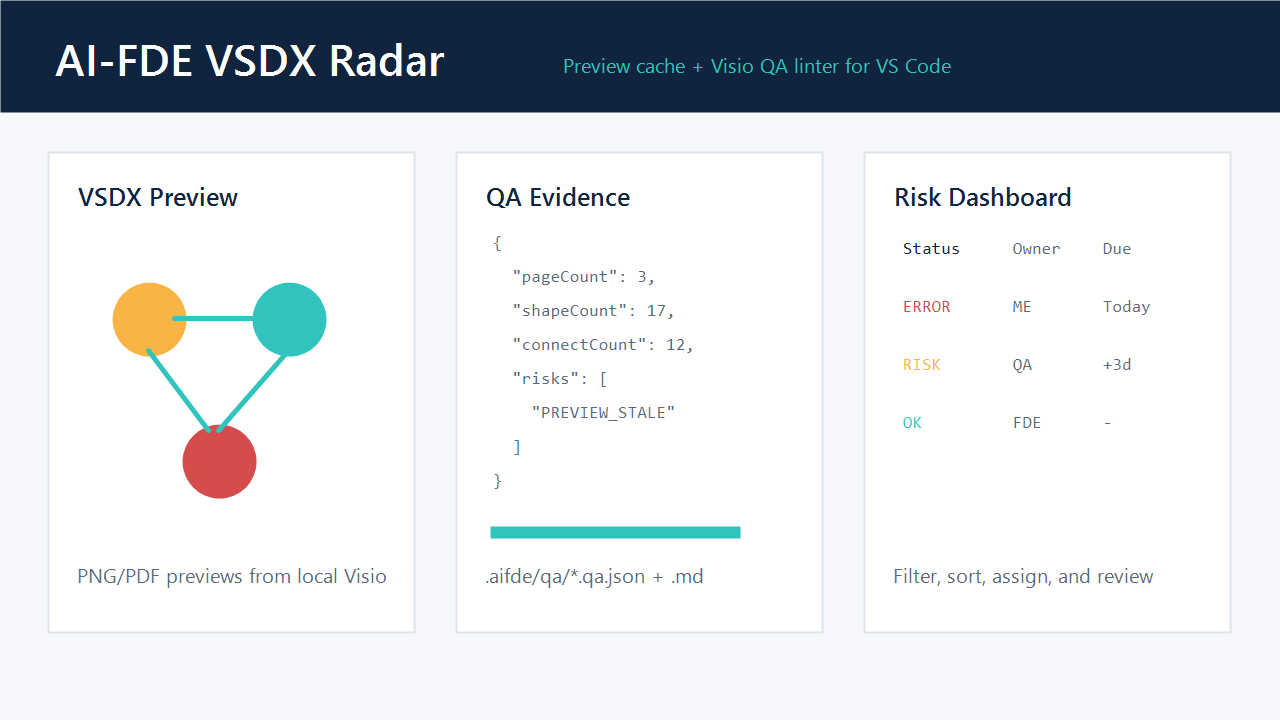
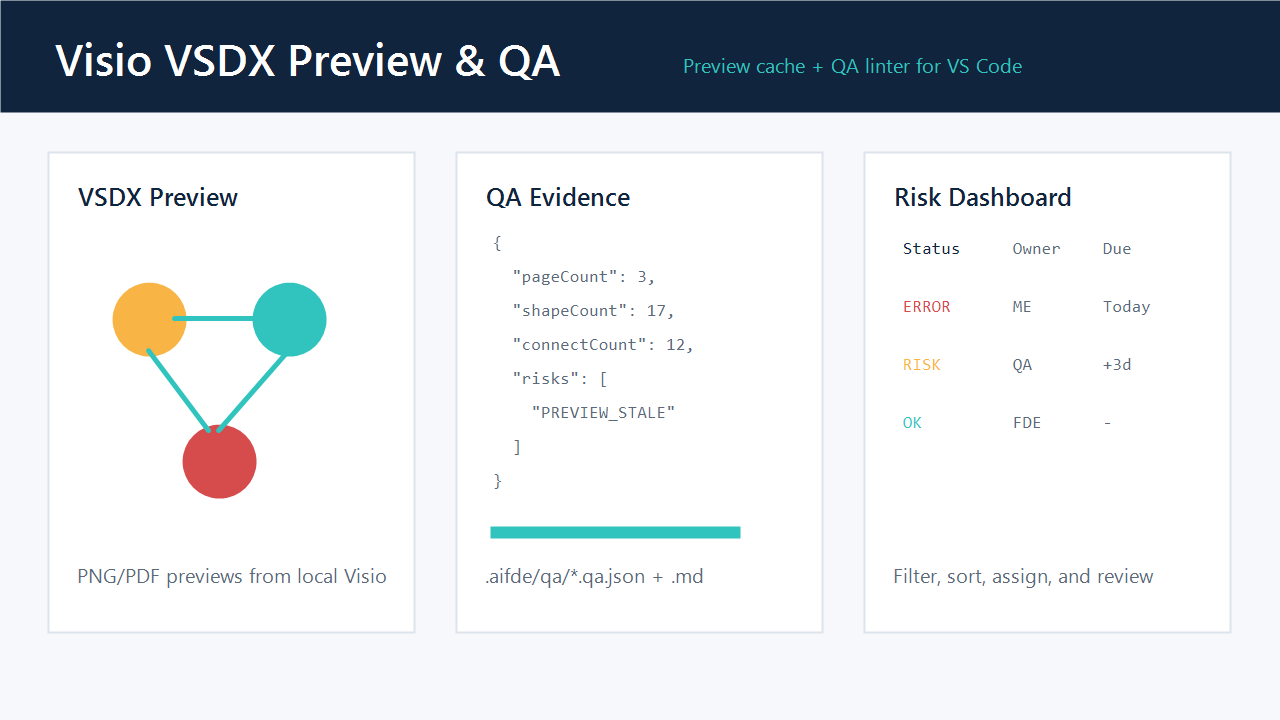
Rename extension for Marketplace clarity

Changed region(s): [[0.0312, 0.0611, 0.7812, 0.1222]]

diff --git a/README.md b/README.md
@@ -1,8 +1,8 @@
-# AI-FDE VSDX Radar
+# Visio VSDX Preview & QA Linter
 
-AI-FDE VSDX Radar brings Microsoft Visio `.vsdx` review into VS Code: export local previews, lint diagram structure, and collect review evidence without leaving the editor.
+Visio VSDX Preview & QA Linter brings Microsoft Visio `.vsdx` review into VS Code: export local previews, lint diagram structure, and collect review evidence without leaving the editor.
 
-![AI-FDE VSDX Radar preview](images/marketplace-preview.png)
+![Visio VSDX Preview and QA Linter preview](images/marketplace-preview.png)
 
 ## What It Does
 